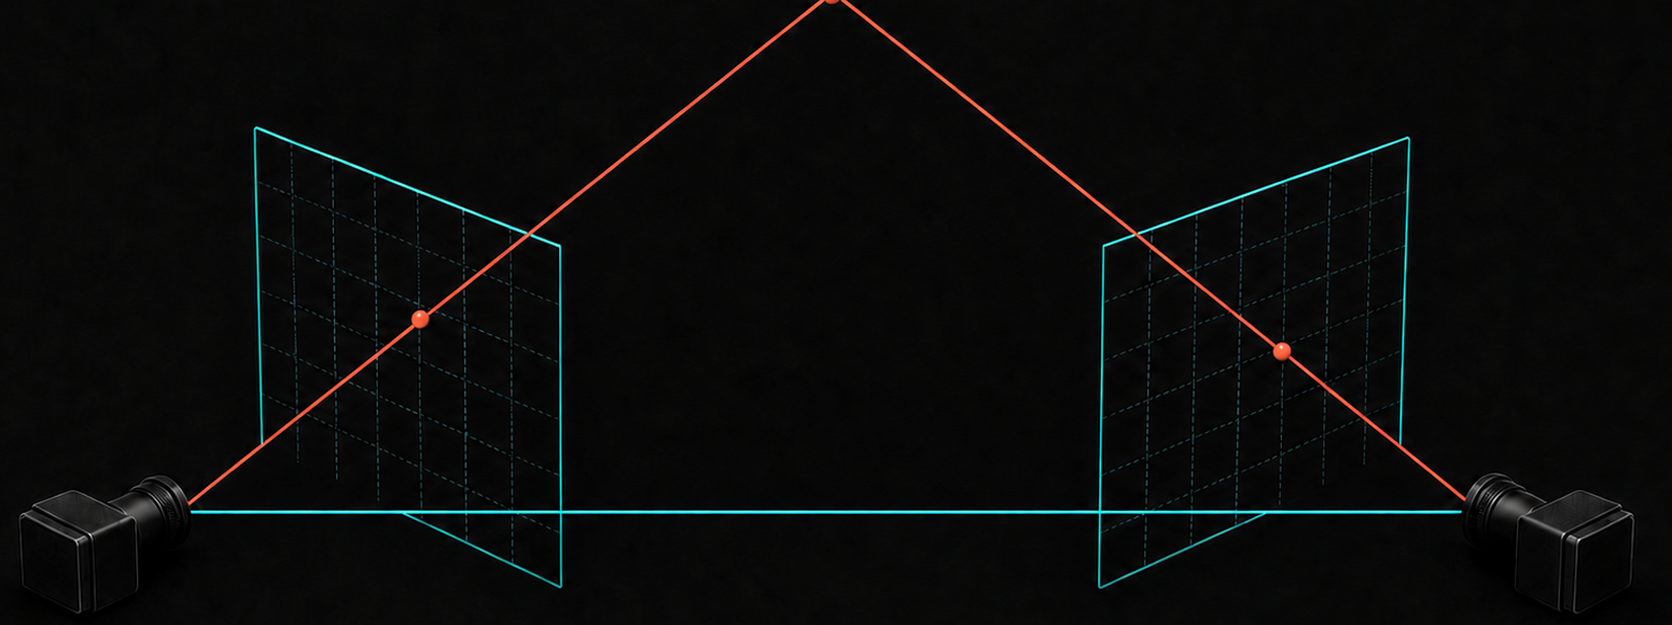
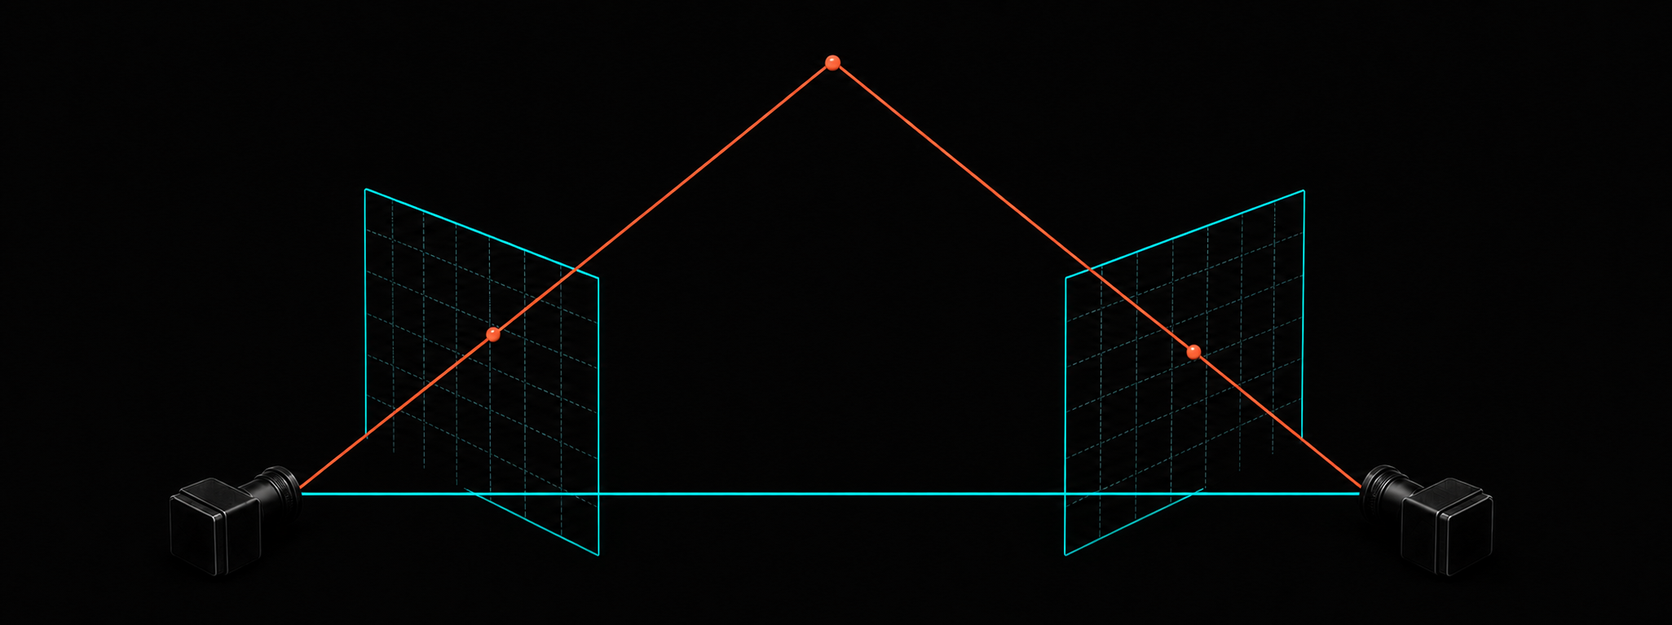
Refine teaser geometry and card presentation

diff --git a/app/page.tsx b/app/page.tsx
@@ -52,7 +52,7 @@ const visualizations: Visualization[] = [
   },
   {
     slug: "system-of-equations",
-    title: "Interactive 3D System of Equations",
+    title: "Linear Systems as Geometry",
     description: "Where constraints meet, solutions appear.",
     category: "Linear Algebra",
     href: "https://csprofkgd.github.io/system-of-equations-visualization/",
@@ -87,18 +87,18 @@ const visualizations: Visualization[] = [
     href: "https://csprofkgd.github.io/perspective-projection/",
   },
   {
-    slug: "convolution",
-    title: "Correlation (aka \"Convolution\")",
-    description: "Slide. Pointwise multiply. Sum. Repeat.",
-    category: "Signal Processing",
-    href: "https://drive.google.com/file/d/1170Cbv73a7XmUNXWXli-rCGe7KW_KXXF/view?usp=share_link",
-  },
-  {
     slug: "epipolar-geometry",
     title: "Epipolar Geometry",
     description: "The geometry behind stereo vision.",
     category: "Projective Geometry",
     href: "https://csprofkgd.github.io/epipolar-geometry-visualization/",
+  },
+  {
+    slug: "convolution",
+    title: "Correlation (aka \"Convolution\")",
+    description: "Slide. Pointwise multiply. Sum. Repeat.",
+    category: "Signal Processing",
+    href: "https://drive.google.com/file/d/1170Cbv73a7XmUNXWXli-rCGe7KW_KXXF/view?usp=share_link",
   },
 ];
 

diff --git a/app/globals.css b/app/globals.css
@@ -293,24 +293,6 @@ a:focus-visible {
   object-position: center;
 }
 
-.visualization-card[data-slug="sphere-to-cubemap"] .teaser-image,
-.visualization-card[data-slug="sphere-to-erp"] .teaser-image {
-  transform: scale(0.94);
-}
-
-.visualization-card[data-slug="sphere-to-cubemap"]:hover .teaser-image,
-.visualization-card[data-slug="sphere-to-erp"]:hover .teaser-image {
-  transform: scale(0.957);
-}
-
-.visualization-card[data-slug="partial-derivatives"] .teaser-image {
-  transform: scale(0.93);
-}
-
-.visualization-card[data-slug="partial-derivatives"]:hover .teaser-image {
-  transform: scale(0.947);
-}
-
 .visualization-card[data-slug="stereo-rectification"] .teaser-image {
   filter: brightness(0.82) contrast(1.14);
 }

diff --git a/scripts/occlude_pinhole_ray.py b/scripts/occlude_pinhole_ray.py
@@ -1,5 +1,5 @@
 #!/usr/bin/env python3
-"""Remove ray pixels hidden by the opaque pinhole plane."""
+"""Keep the incident ray visible and remove only its hidden outgoing segment."""
 
 from pathlib import Path
 
@@ -18,15 +18,13 @@ def occlude(path: Path):
     arr = np.asarray(image).copy()
     yy, xx = np.indices(arr.shape[:2])
 
-    # The ray is the line through the marked world point and pinhole. Replace
-    # the complete glowing band inside the opaque plane—not merely its bright
-    # cyan core—with the plane texture sampled immediately above and below it.
+    # The ray is the line through the marked world point and pinhole. The
+    # incident segment at the left must remain visible all the way to the
+    # aperture; only the segment to the right of the pinhole is hidden.
     ray_y = 0.24164 * xx + 324.0
     plane = (xx >= 744) & (xx <= 929) & (yy >= 290) & (yy <= 770)
-    # Preserve only the aperture itself. The ray glow immediately on either
-    # side is behind the opaque plane and must remain hidden.
     pinhole = (xx - 836) ** 2 + (yy - 526) ** 2 <= 10 ** 2
-    hidden_ray = plane & (np.abs(yy - ray_y) <= 15) & ~pinhole
+    hidden_ray = plane & (xx > 846) & (np.abs(yy - ray_y) <= 15) & ~pinhole
 
     upper_y = np.clip((ray_y - 24).astype(int), 0, arr.shape[0] - 1)
     lower_y = np.clip((ray_y + 24).astype(int), 0, arr.shape[0] - 1)

diff --git a/scripts/prepare_card_teasers.py b/scripts/prepare_card_teasers.py
@@ -9,6 +9,7 @@ from PIL import Image, PngImagePlugin
 ROOT = Path(__file__).resolve().parents[1]
 TEASERS = ROOT / "public" / "teasers"
 SOURCE_SIZE = (1672, 941)
+WIDE_SOURCE_SIZE = (2051, 767)
 CARD_SIZE = (1672, 625)
 
 # All generated compositions use the same visualization-panel placement. This
@@ -29,12 +30,14 @@ def prepare(path: Path) -> None:
         return
     if image.size == SOURCE_SIZE:
         crop = MASTER_CARD_CROP
+        card = image.crop(crop).resize(CARD_SIZE, Image.Resampling.LANCZOS)
+    elif image.size == WIDE_SOURCE_SIZE:
+        card = image.resize(CARD_SIZE, Image.Resampling.LANCZOS)
     elif image.size == CARD_SIZE:
         crop = LEGACY_CARD_CROP
+        card = image.crop(crop).resize(CARD_SIZE, Image.Resampling.LANCZOS)
     else:
         raise ValueError(f"Unexpected teaser size for {path.name}: {image.size}")
-
-    card = image.crop(crop).resize(CARD_SIZE, Image.Resampling.LANCZOS)
     metadata = PngImagePlugin.PngInfo()
     metadata.add_text("card_teaser_format", FORMAT_MARKER)
     card.save(path, optimize=True, pnginfo=metadata)

diff --git a/context.md b/context.md
@@ -23,11 +23,16 @@ Updated: 2026-08-25
 
 ## Accepted content and replacements
 
-- Perspective Projection: use the new photoreal scene with tree/rocks, opaque pinhole plane, one ray, and inverted image-plane projection. The ray is hidden by the opaque plane except at the pinhole.
+- Perspective Projection: use the new photoreal scene with tree/rocks, opaque pinhole plane, one ray, and inverted image-plane projection. The incident ray remains visible from the world point to the pinhole, is hidden only while passing behind the opaque plane, and reappears after clearing the plane to continue to the projected image point.
+- Sphere to Cubemap and Sphere to Equirectangular Projection: use the outpainted compositions with black background at every raster edge and modest breathing room around the complete globe and mapping diagram. Do not restore CSS downscaling that exposes the card surface.
+- Parallel Stereo: keep both rendered views unchanged. Each projection ray is one collinear world-point → rendered pixel → camera-center line. Epipolar lines pass through the projected pixels and use symmetric inward-converging orientations consistent with the converging cameras.
+- Stereo Rectification, Epipolar Geometry, Local Minimum, and Parallel Stereo use outpainted compositions with black background at every raster edge and breathing room around all cameras, points, surfaces, paths, and image planes.
 - Partial Derivatives: use the new simplified saddle, one vertical slice plane, true intersection curve, and tangent line. Do not use the older two-plane image.
 - Planar Homography: no correspondence lines. Use four uniquely colored paired corner points on source and rectified image.
 - Epipolar Geometry: use the clean outline-only triangle through the cameras and one world point. Remove the misleading translucent interior overlap and draw no epipolar line on either image plane; retain the cameras, baseline, rays, and one projection point per image plane.
 - Local Minimum subtitle: “Why local minima are rarely the problem.”
+- System of Equations card title: “Linear Systems as Geometry”.
+- Final row order: Perspective Projection, Epipolar Geometry, Correlation (aka "Convolution").
 - Correlation title: `Correlation (aka "Convolution")` and multiplication symbol `*` in the teaser. The active sliding 3×3 kernel over the input must use the same white-center/gray-cross/dark-corner weights as the displayed kernel immediately to the right of `*`.
 - Author card: compact approximately 600px-wide card with no excess blank area on the right.
 
